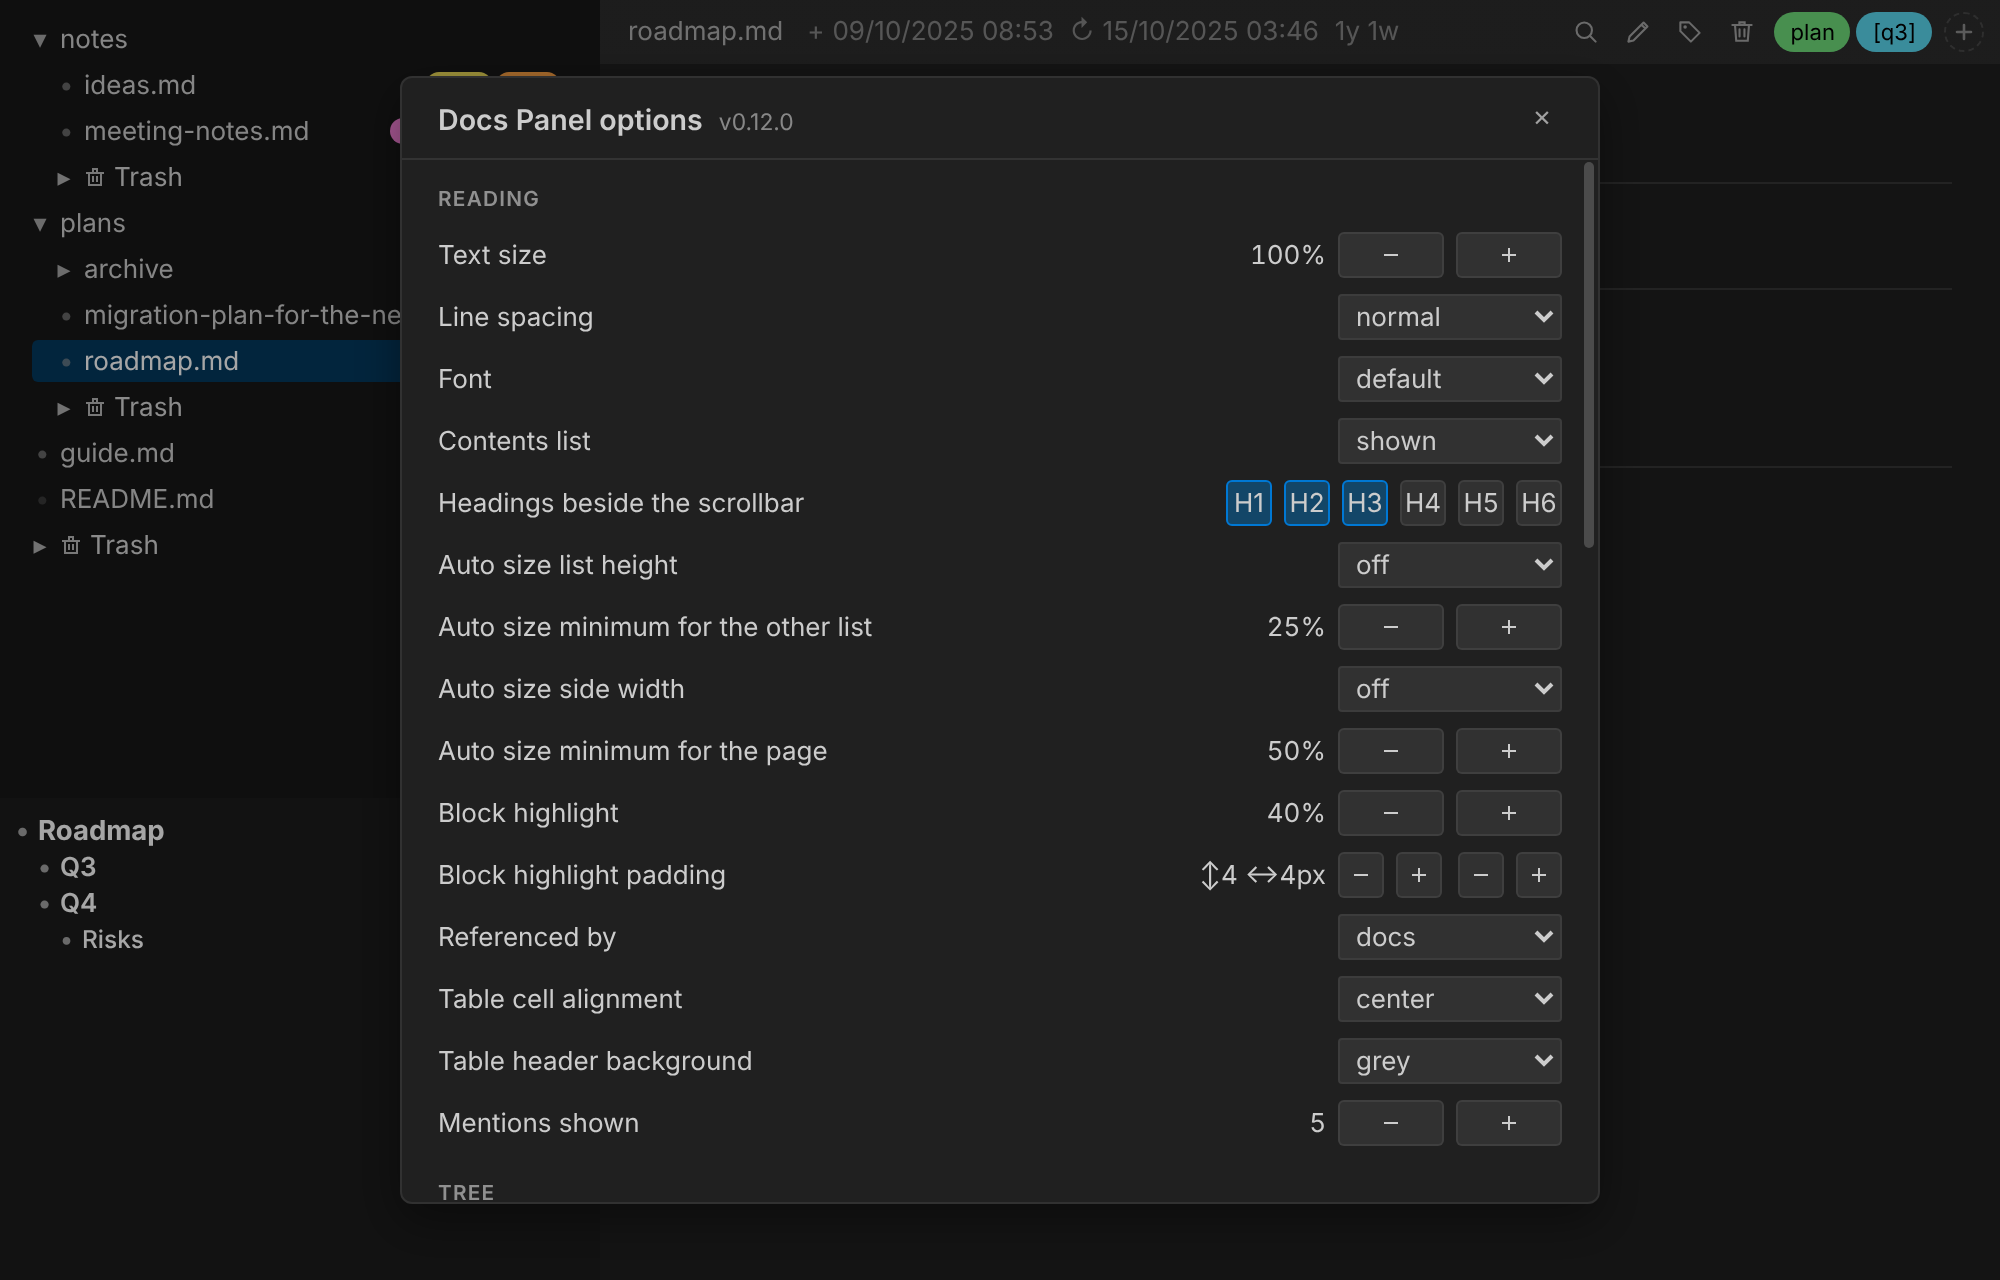
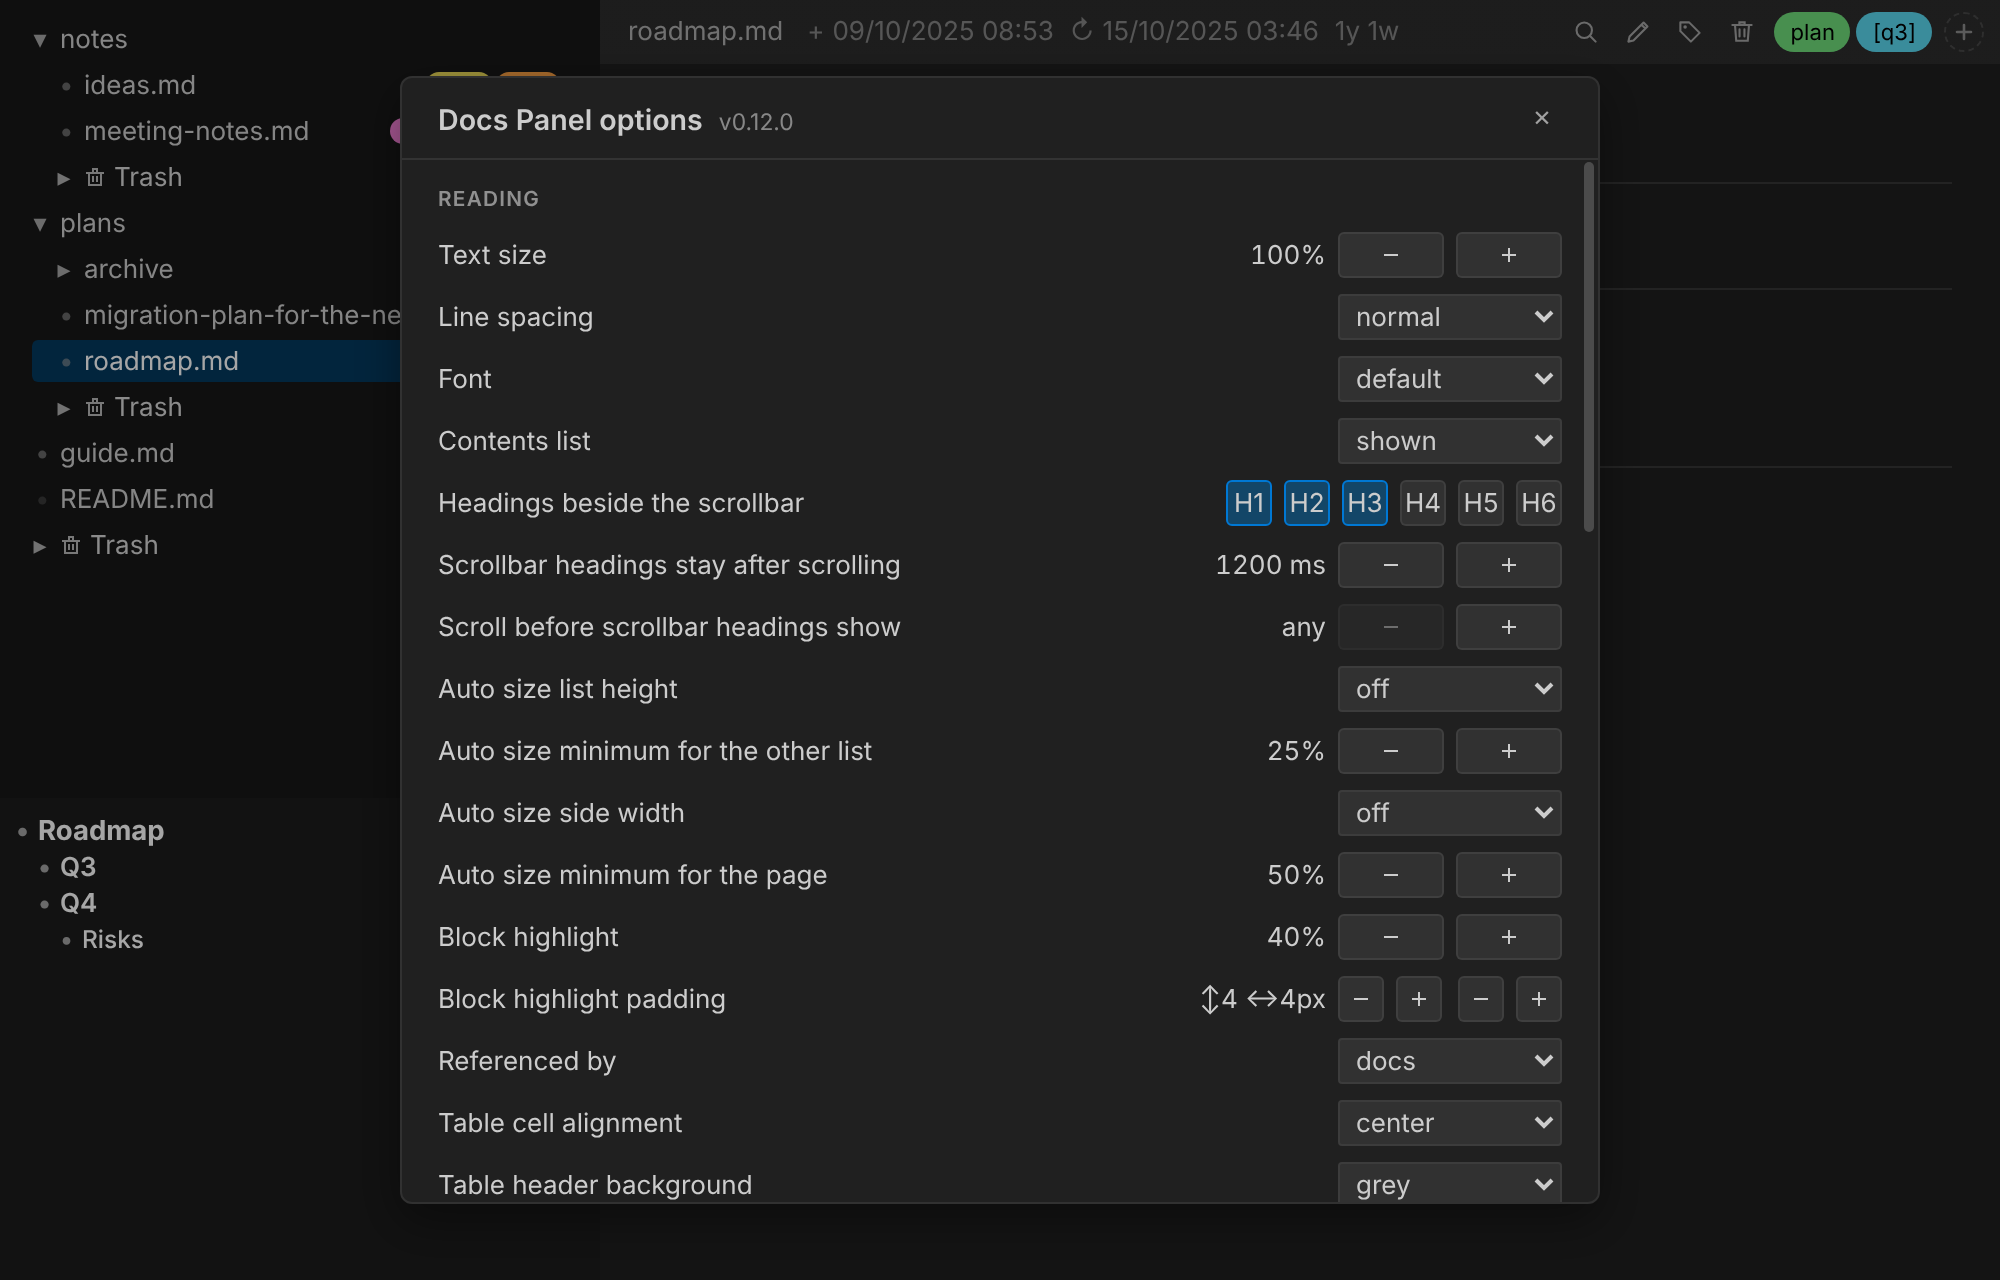
feat(panel): options for how long the scrollbar headings stay and how far to scroll; pills move aside and size by level
Two new options: how long the heading pills stay after the page stops
scrolling (100 to 10000 ms, 1200 by default), and how far the page must
scroll in one go before they come up (any to 1000 px, any by default; a
pause of 400 ms starts the count again). Once up, any scroll keeps them.
Saved as marksLinger and marksReach.

No two pills overlap: a pill whose place is taken by a higher heading's is
moved to the nearest free spot within one and a half pill heights that
keeps the page's order, and is left out only when there is none. The size
of a pill's text follows its heading's level, 14px for # to 10px for ######.

Claude-Session: https://claude.ai/code/session_01GRmFA6iAkEsBtRTgga4DRB

diff --git a/media/main.js b/media/main.js
@@ -257,6 +257,15 @@
   let refsScope = "docs";
   // The heading levels marked beside the reading pane's bar; none turns the marks off.
   let barLevels = [1, 2, 3];
+  // How long, in ms, the marks stay after the page stops scrolling, and how far, in px, it
+  // must scroll in one go before they come up.
+  let marksLinger = 1200;
+  const MARKS_LINGER_STEP = 100;
+  const MIN_MARKS_LINGER = 100;
+  const MAX_MARKS_LINGER = 10000;
+  let marksReach = 0;
+  const MARKS_REACH_STEP = 20;
+  const MAX_MARKS_REACH = 1000;
   const REF_SCOPES = ["off", "docs", "all"];
   const REF_SCOPE_LABELS = ["off", "docs", "all files"];
   // How far down each file was read, as a share of the way, oldest first.
@@ -401,6 +410,12 @@
     if (Array.isArray(state.barLevels)) {
       barLevels = [1, 2, 3, 4, 5, 6].filter((level) => state.barLevels.includes(level));
     }
+    if (typeof state.marksLinger === "number") {
+      marksLinger = state.marksLinger;
+    }
+    if (typeof state.marksReach === "number") {
+      marksReach = state.marksReach;
+    }
     selected = typeof state.selected === "string" ? state.selected : null;
     if (typeof state.searchCase === "boolean") {
       searchCase = state.searchCase;
@@ -477,6 +492,8 @@
       tableHead: tableHead,
       refsScope: refsScope,
       barLevels: barLevels,
+      marksLinger: marksLinger,
+      marksReach: marksReach,
       selected: selected,
       editing: [...editing],
       searchCase: searchCase,
@@ -2475,11 +2492,16 @@
   // The headings of a Markdown page, as pills beside the reading pane's bar at the share
   // of the page each stands at, so the thumb lies over the ones on screen. They come up
   // while the page scrolls and go a moment after it stops, staying while the pointer is on
-  // one or the thumb is held. A higher heading has first claim on the room; one with no
-  // room left is not shown. Which levels are shown is an option, and none turns them off.
-  const MARKS_HIDE_MS = 1200;
+  // one or the thumb is held. No two pills overlap: a higher heading has first claim on
+  // the room, a lower one is moved a little out of its way, and one with no room near
+  // its place is not shown. Which levels are shown, how long they stay and how far the
+  // page must scroll to bring them up are options; no level at all turns them off.
   const MARKS_QUIET_MS = 300;
+  // A scroll that pauses this long before it has gone far enough starts counting again.
+  const MARKS_GESTURE_MS = 400;
   const MARK_GAP = 2;
+  // How far a pill may be moved from its place, in pill heights.
+  const MARK_SHIFT = 1.5;
   const marksEl = document.createElement("div");
   marksEl.id = "marks";
   paneEl.appendChild(marksEl);
@@ -2490,6 +2512,9 @@
   // A scroll the page makes itself, putting a file back where it was read, is not the
   // reader scrolling, and brings no pills up.
   let marksQuietUntil = 0;
+  let marksTop = 0;
+  let marksRun = 0;
+  let marksRunAt = 0;
   const marksWatch = new ResizeObserver(() => {
     if (marksShown) {
       layoutMarks();
@@ -2536,22 +2561,41 @@
     const host = paneEl.getBoundingClientRect();
     marksEl.style.top = box.top - host.top + "px";
     marksEl.style.height = view + "px";
-    for (const mark of marks) {
+    marks.forEach((mark, index) => {
       mark.top = mark.heading.getBoundingClientRect().top - box.top + bodyEl.scrollTop;
+      mark.index = index;
       mark.el.hidden = false;
-    }
-    const taken = [];
-    const byRank = [...marks].sort((a, b) => a.level - b.level);
+    });
+    // A spot is free when it clears every pill placed so far and keeps the page's order:
+    // above the pills of the headings after it, below those before it.
+    const placed = [];
+    const free = (index, top, height) =>
+      top >= 0 &&
+      top + height <= view &&
+      placed.every((other) =>
+        other.index < index ? top >= other.bottom + MARK_GAP : top + height <= other.top - MARK_GAP
+      );
+    const byRank = [...marks].sort((a, b) => a.level - b.level || a.index - b.index);
     for (const mark of byRank) {
       const height = mark.el.offsetHeight;
       const y = (mark.top / Math.max(total, 1)) * view;
-      const top = Math.round(Math.min(Math.max(y - height / 2, 0), Math.max(view - height, 0)));
-      const bottom = top + height;
-      if (taken.some((span) => top < span[1] + MARK_GAP && bottom > span[0] - MARK_GAP)) {
+      const want = Math.round(Math.min(Math.max(y - height / 2, 0), Math.max(view - height, 0)));
+      const spots = [want];
+      for (const other of placed) {
+        spots.push(other.bottom + MARK_GAP, other.top - MARK_GAP - height);
+      }
+      let top = null;
+      for (const spot of spots) {
+        const near = Math.abs(spot - want) <= height * MARK_SHIFT;
+        if (near && free(mark.index, spot, height) && (top === null || Math.abs(spot - want) < Math.abs(top - want))) {
+          top = spot;
+        }
+      }
+      if (top === null) {
         mark.el.hidden = true;
         continue;
       }
-      taken.push([top, bottom]);
+      placed.push({ index: mark.index, top: top, bottom: top + height });
       mark.el.style.top = top + "px";
     }
   }
@@ -2582,13 +2626,13 @@
     }
     markReading();
     clearTimeout(marksTimer);
-    marksTimer = setTimeout(() => hideMarks(false), MARKS_HIDE_MS);
+    marksTimer = setTimeout(() => hideMarks(false), marksLinger);
   }
 
   function hideMarks(now) {
     clearTimeout(marksTimer);
     if (!now && (marksHover || bodyBar.bar.classList.contains("held"))) {
-      marksTimer = setTimeout(() => hideMarks(false), MARKS_HIDE_MS);
+      marksTimer = setTimeout(() => hideMarks(false), marksLinger);
       return;
     }
     marksShown = false;
@@ -2597,13 +2641,25 @@
 
   function quietMarks() {
     marksQuietUntil = performance.now() + MARKS_QUIET_MS;
+    marksRun = 0;
   }
 
+  // Once up, the marks stay up for any scroll; only bringing them up asks for the reach.
   bodyEl.addEventListener("scroll", () => {
-    if (performance.now() >= marksQuietUntil) {
+    const now = performance.now();
+    const moved = Math.abs(bodyEl.scrollTop - marksTop);
+    marksTop = bodyEl.scrollTop;
+    if (now < marksQuietUntil) {
+      marksRun = 0;
+      if (marksShown) {
+        markReading();
+      }
+      return;
+    }
+    marksRun = now - marksRunAt > MARKS_GESTURE_MS ? moved : marksRun + moved;
+    marksRunAt = now;
+    if (marksShown || marksRun >= marksReach) {
       revealMarks();
-    } else if (marksShown) {
-      markReading();
     }
   });
 
@@ -2614,6 +2670,18 @@
   marksEl.addEventListener("pointerleave", () => {
     marksHover = false;
   });
+
+  function stepMarksLinger(delta) {
+    marksLinger = Math.min(Math.max(marksLinger + delta, MIN_MARKS_LINGER), MAX_MARKS_LINGER);
+    persist();
+    drawOptions();
+  }
+
+  function stepMarksReach(delta) {
+    marksReach = Math.min(Math.max(marksReach + delta, 0), MAX_MARKS_REACH);
+    persist();
+    drawOptions();
+  }
 
   function toggleBarLevel(level) {
     barLevels = barLevels.includes(level)
@@ -5121,6 +5189,22 @@
         return button;
       })
     ]);
+    optionRow(reading, "Scrollbar headings stay after scrolling", optionStepper(
+      marksLinger + " ms",
+      ["Hide the headings sooner after the page stops", "Keep the headings up longer after the page stops"],
+      () => stepMarksLinger(-MARKS_LINGER_STEP),
+      () => stepMarksLinger(MARKS_LINGER_STEP),
+      marksLinger <= MIN_MARKS_LINGER,
+      marksLinger >= MAX_MARKS_LINGER
+    ));
+    optionRow(reading, "Scroll before scrollbar headings show", optionStepper(
+      marksReach ? marksReach + " px" : "any",
+      ["Bring the headings up after a shorter scroll", "Bring the headings up only after a longer scroll"],
+      () => stepMarksReach(-MARKS_REACH_STEP),
+      () => stepMarksReach(MARKS_REACH_STEP),
+      marksReach <= 0,
+      marksReach >= MAX_MARKS_REACH
+    ));
     optionRow(reading, "Auto size list height", [
       optionChoice(AUTO_LABELS, AUTO_SIZES.indexOf(autoSize), (choice) => setAutoSize(AUTO_SIZES[choice]))
     ]);

diff --git a/src/panel.ts b/src/panel.ts
@@ -143,6 +143,10 @@ export interface PanelState {
   refsScope: RefScope;
   // The heading levels marked beside the reading pane's bar, 1 to 6; none turns them off.
   barLevels: number[];
+  // How long, in ms, they stay after the page stops scrolling, and how far, in px, it must
+  // scroll in one go to bring them up.
+  marksLinger: number;
+  marksReach: number;
   selected: string | null;
   // The files left in edit mode, which open in it again.
   editing: string[];
@@ -187,6 +191,8 @@ const DEFAULT_STATE: PanelState = {
   tableHead: "grey",
   refsScope: "docs",
   barLevels: [1, 2, 3],
+  marksLinger: 1200,
+  marksReach: 0,
   selected: null,
   editing: [],
   searchCase: false,
@@ -1799,6 +1805,8 @@ function normalizeState(value: any): PanelState {
   const textScale = numberOf(value?.textScale);
   const treeScale = numberOf(value?.treeScale);
   const lineHeight = numberOf(value?.lineHeight);
+  const marksLinger = numberOf(value?.marksLinger);
+  const marksReach = numberOf(value?.marksReach);
   const hoverStrength = numberOf(value?.hoverStrength);
   // One padding, before it was split in two, stands for both.
   const blockPad = numberOf(value?.blockPad);
@@ -1873,6 +1881,12 @@ function normalizeState(value: any): PanelState {
     barLevels: Array.isArray(value?.barLevels)
       ? [1, 2, 3, 4, 5, 6].filter((level) => value.barLevels.includes(level))
       : DEFAULT_STATE.barLevels,
+    marksLinger: Number.isFinite(marksLinger)
+      ? Math.min(Math.max(Math.round(marksLinger), 100), 10000)
+      : DEFAULT_STATE.marksLinger,
+    marksReach: Number.isFinite(marksReach)
+      ? Math.min(Math.max(Math.round(marksReach), 0), 1000)
+      : DEFAULT_STATE.marksReach,
     selected: typeof value?.selected === "string" ? value.selected : null,
     editing: Array.isArray(value?.editing) ? value.editing.map(String) : [],
     scrolls

diff --git a/tools/screenshots/scenes.js b/tools/screenshots/scenes.js
@@ -26,6 +26,18 @@ const search = (text) => async (page) => {
   await page.waitForTimeout(150);
 };
 
+// A long page of every heading level, sections of uneven length.
+const crowded = () => {
+  const text = (n) => "<p>" + "Some text to read. ".repeat(n) + "</p>";
+  let html = "<h1>Storage layer</h1>" + text(30);
+  for (let i = 1; i <= 6; i++) {
+    html += "<h2>Part " + i + "</h2>" + text(i % 2 ? 4 : 40);
+    html += "<h3>Details of part " + i + "</h3>" + text(3);
+    html += "<h4>Notes " + i + "</h4>" + text(2) + "<h5>Aside " + i + "</h5>" + text(2) + "<h6>Footnote " + i + "</h6>" + text(20);
+  }
+  return html;
+};
+
 // The page's own place is put back when it opens; a wheel a moment later is the reader's.
 const scrollPage = (by) => async (page) => {
   await page.waitForTimeout(400);
@@ -283,6 +295,21 @@ module.exports = [
     state: { selected: "plans/migration-plan-for-the-new-storage-layer.md", textScale: 1.6, barLevels: [2] },
     hover: true,
     act: scrollPage(240)
+  },
+  // Headings of every level, some close together: no two pills overlap, a lower one
+  // moves out of a higher one's way or is left out, and the text size follows the level.
+  {
+    name: "page-marks-crowded",
+    viewport: { width: 1000, height: 420 },
+    state: { barLevels: [1, 2, 3, 4, 5, 6] },
+    hover: true,
+    act: async (page) => {
+      await page.evaluate((html) => window.postMessage({
+        type: "content", path: "plans/roadmap.md", kind: "md", text: "", html: html,
+        created: 1760000000000, modified: 1760500000000
+      }, "*"), crowded());
+      await scrollPage(300)(page);
+    }
   },
   ...["dark-modern", "light-modern"].map((theme) => ({
     name: "page-refs" + (theme === "light-modern" ? "-light" : ""),

diff --git a/media/main.css b/media/main.css
@@ -2083,12 +2083,14 @@ img.single {
   box-sizing: border-box;
   overflow: hidden;
   border: 1px solid var(--vscode-editorWidget-border, rgba(128, 128, 128, 0.35));
-  border-radius: 9px;
+  border-radius: 999px;
   padding: 0 8px;
   color: var(--vscode-descriptionForeground, #8b949e);
   background: var(--vscode-editorWidget-background, var(--vscode-editor-background));
   box-shadow: 0 1px 4px var(--vscode-widget-shadow, rgba(0, 0, 0, 0.25));
-  font: 11px/16px var(--vscode-font-family);
+  font-family: var(--vscode-font-family);
+  font-size: 11px;
+  line-height: 1.45;
   white-space: nowrap;
   text-overflow: ellipsis;
   cursor: pointer;
@@ -2109,13 +2111,32 @@ img.single {
   pointer-events: auto;
 }
 
+/* The size of the text says the size of the heading, from 14px for # to 10px for ######. */
 #marks .mark.mark-h1 {
   color: var(--vscode-foreground);
+  font-size: 14px;
   font-weight: 600;
 }
 
 #marks .mark.mark-h2 {
   color: var(--vscode-foreground);
+  font-size: 12.5px;
+}
+
+#marks .mark.mark-h3 {
+  font-size: 11.5px;
+}
+
+#marks .mark.mark-h4 {
+  font-size: 11px;
+}
+
+#marks .mark.mark-h5 {
+  font-size: 10.5px;
+}
+
+#marks .mark.mark-h6 {
+  font-size: 10px;
 }
 
 #marks .mark:hover,

diff --git a/README.md b/README.md
@@ -146,11 +146,17 @@ number. Its strength and padding are set in the options; strength `off` disables
 
 While a Markdown page scrolls, its headings come up as pills beside the scrollbar, each at
 the height that heading stands at in the page, so the thumb lies over the ones on screen.
-They fade out a moment after the scrolling stops, and stay while the pointer is on one or
-the thumb is held. The pill of the section being read is outlined, and a click on a pill
-scrolls to its heading. When pills would overlap, the higher heading is shown. The options
-choose the levels shown, `#`, `##` and `###` (H1 to H3) by default; with none chosen there
-are no pills.
+The size of a pill's text follows the heading's level. They fade out a moment after the
+scrolling stops (1200 ms by default), and stay while the pointer is on one or the thumb is
+held. The pill of the section being read is outlined, and a click on a pill scrolls to its
+heading. No two pills overlap: a higher heading keeps its place, a lower one is moved a
+little out of its way, keeping the page's order, and is left out when there is no room
+near its place.
+
+The options choose the levels shown (`#`, `##` and `###`, H1 to H3, by default; none turns
+the pills off), how long they stay after the scrolling stops (100 to 10000 ms), and how far
+the page must scroll in one go before they come up (`any` by default, up to 1000 px). Once
+up, any scroll keeps them up.
 
 ## Tables
 
@@ -312,7 +318,7 @@ The sliders button in the tree's top right corner opens the options.
 
 | Section | Settings |
 |---|---|
-| Reading | Text size, line spacing, font, contents list shown, heading levels shown beside the scrollbar (H1 to H6), auto size list height and the minimum share kept by the other list, auto size side width (off / fit / grow only) and the minimum share kept by the page, block highlight strength and padding (vertical and horizontal), where referencing files are looked for (off / docs / all files), table cell alignment, table header background, mentions shown |
+| Reading | Text size, line spacing, font, contents list shown, heading levels shown beside the scrollbar (H1 to H6), how long they stay after scrolling (ms) and how far to scroll before they show (px), auto size list height and the minimum share kept by the other list, auto size side width (off / fit / grow only) and the minimum share kept by the page, block highlight strength and padding (vertical and horizontal), where referencing files are looked for (off / docs / all files), table cell alignment, table header background, mentions shown |
 | Tree | Text size, side of the name the tags are drawn on, bucket outline, bucket background tint, bucket heading position (inside, on the outline, above), style (pill, colour bar, plain name), colour and weight |
 | Tags | One row per tag; see below |
 | Data files | Each file the panel writes, with its size and a **Purge** button |

diff --git a/.github/releases/v0.12.0.md b/.github/releases/v0.12.0.md
@@ -1,9 +1,10 @@
 Headings beside the scrollbar, and a quieter list of the files that name a page.
 
 **Headings beside the scrollbar.**
-- While a Markdown page scrolls, its headings come up as pills beside the scrollbar, each at the height that heading stands at in the page, so the thumb lies over the ones on screen. They slide in, and fade out a moment after the scrolling stops; they stay while the pointer is on one or the thumb is held.
-- The pill of the section being read is outlined, and a click on a pill scrolls to its heading. When pills would overlap, the higher heading is shown.
-- New option: which heading levels are shown, H1 to H6, `#`, `##` and `###` by default. With none chosen there are no pills. Opening a file, which puts it back where it was read, brings none up.
+- While a Markdown page scrolls, its headings come up as pills beside the scrollbar, each at the height that heading stands at in the page, so the thumb lies over the ones on screen. The size of a pill's text follows the heading's level. They slide in, and fade out a moment after the scrolling stops; they stay while the pointer is on one or the thumb is held.
+- The pill of the section being read is outlined, and a click on a pill scrolls to its heading.
+- No two pills overlap: a higher heading keeps its place, a lower one is moved a little out of its way, keeping the page's order, and is left out only when there is no room near its place.
+- New options: which heading levels are shown, H1 to H6 (`#`, `##` and `###` by default; none turns the pills off); how long they stay after the scrolling stops, 1200 ms by default; and how far the page must scroll in one go before they come up, any distance by default. Opening a file, which puts it back where it was read, brings none up.
 
 **Referenced by.**
 - The "Referenced by N files" line is gone. The list is marked instead by a bar of the link colour down its left and a faint wash of it behind, with no frame around it.
